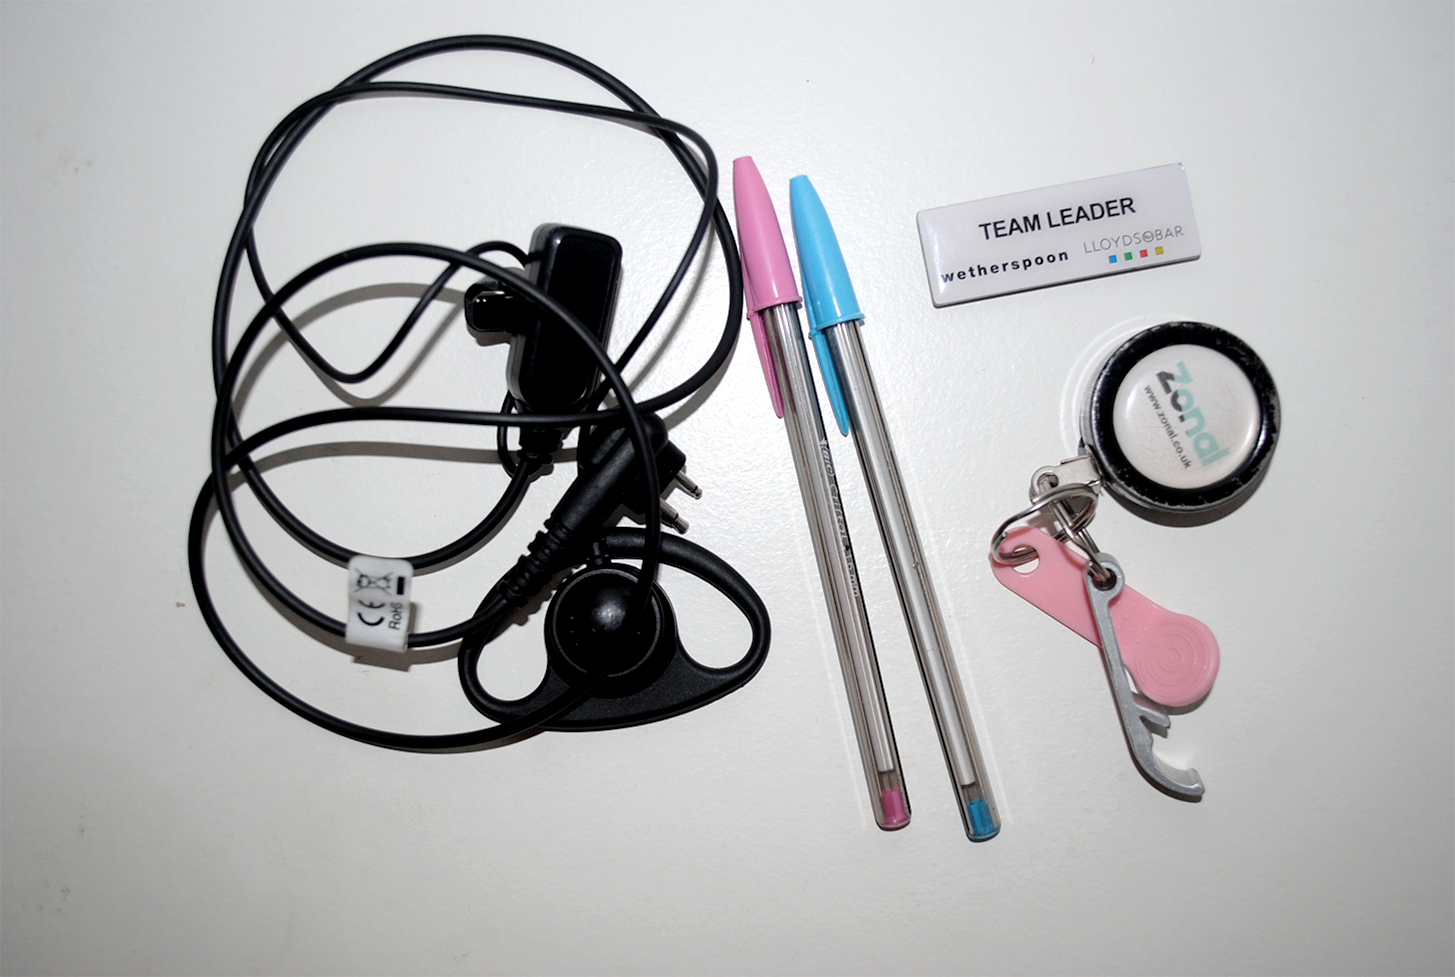
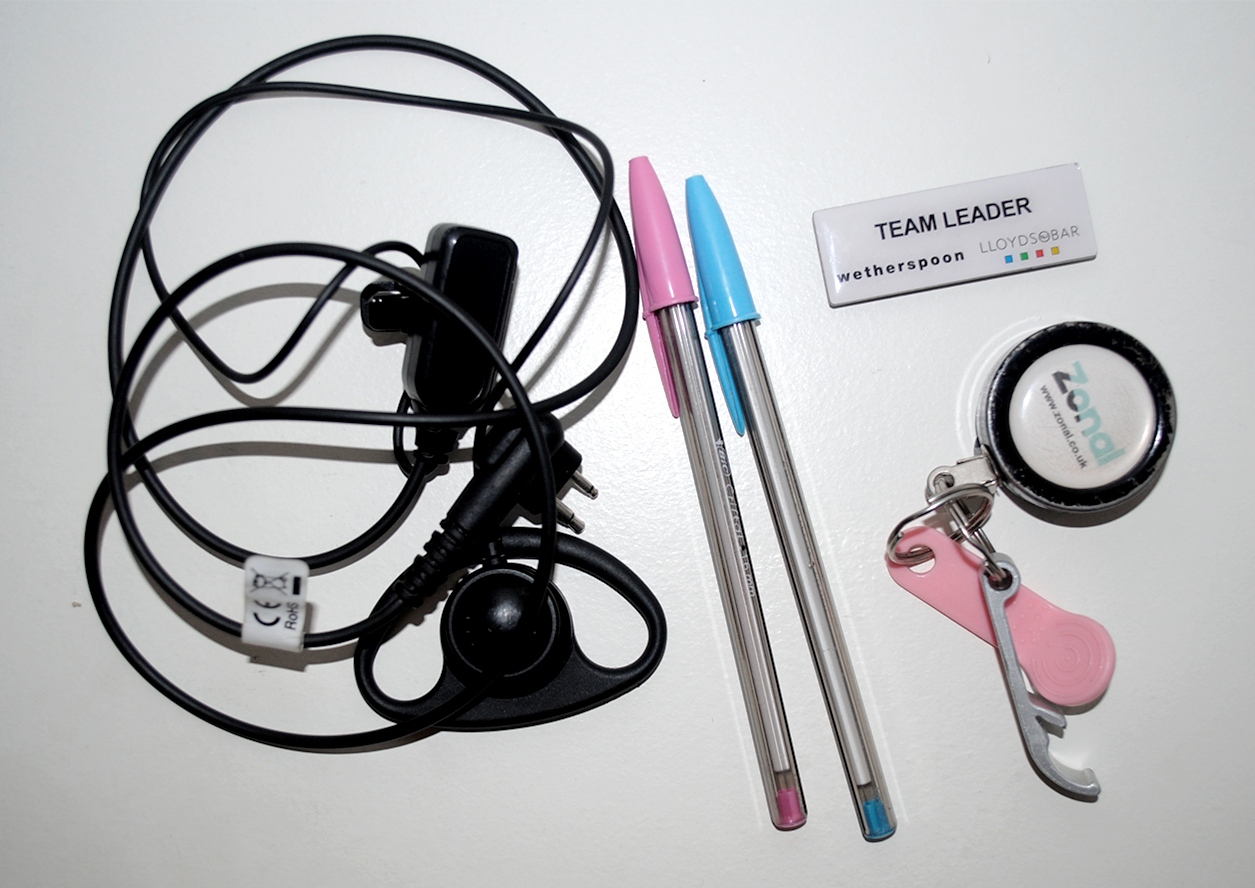
changed pictures where relevant

Changed region(s): [[0.0622, 0.0304, 0.9633, 0.973], [0.0, 0.7905, 0.1554, 1.0]]

diff --git a/cv.html b/cv.html
@@ -84,7 +84,7 @@
       <!-- right column -->
       <div class="col-sm">
         <figure>
-        <img src="img/kaboom.jpg" alt="Bambino's baby food branding">
+        <img src="img/kaboom.jpg" alt="KA BOOM logo">
         <figcaption class="right-alignment">
           KA BOOM logo on the wall in the office
         </figcaption>
@@ -113,7 +113,8 @@ _Independence.
       <div class="col-sm right-alignment">
         <h2>Team Leader at JD Wetherspoon<br>Quayside (Part Time)</h2>
         <h2 class="date">2016 – Present</h2>
-        <p>During my time at JD Wetherspoon, I have achieved a promotion from Associate to Team Leader. Since becoming a Team Leader, I am required to be cross trained across different roles in the pub and am knowledgeable in each area of the establishment for safety, hygiene, and standards of procedures purposes.<br>Main responsibilities in this role include:</p>
+        <p>During my time at JD Wetherspoon, I have achieved a promotion from Associate to Team Leader. Since becoming a Team Leader, I am required to be cross trained across different roles in the pub and am knowledgeable in each area of the establishment for safety, hygiene, and standards of procedures purposes.</p>
+        <p>Main responsibilities in this role include:<br>
         <p>_Ensuring that all staff are trained to the company’s standard that is suitable for a fast paced environment,<br>
         _Providing guidance and support to team members,<br>
         _Maintaining the highest standards of the pub at all times,<br>
@@ -126,9 +127,9 @@ _Independence.
 <!-- left -->
       <div class="col-sm">
         <figure>
-        <img src="img/nutrition-phone.png" alt="nutrition app">
+        <img src="img/fob.png" alt="Waitressing equipment">
         <figcaption>
-          [fob and shit]
+          My till fob, bottle opener, badge, pens and ear piece
         </figcaption>
       </div>
     </div>
@@ -152,9 +153,9 @@ _Independence.
       <!-- left column -->
       <div class="col-sm">
         <figure>
-        <img src="img/aldi-cup.png" alt="illustration">
+        <img src="img/landyard.png" alt="College Landyard">
         <figcaption class="right-alignment">
-          [take a pic of lanyard]
+          My landyard for Newcastle College
         </figcaption>
       </div>
 
